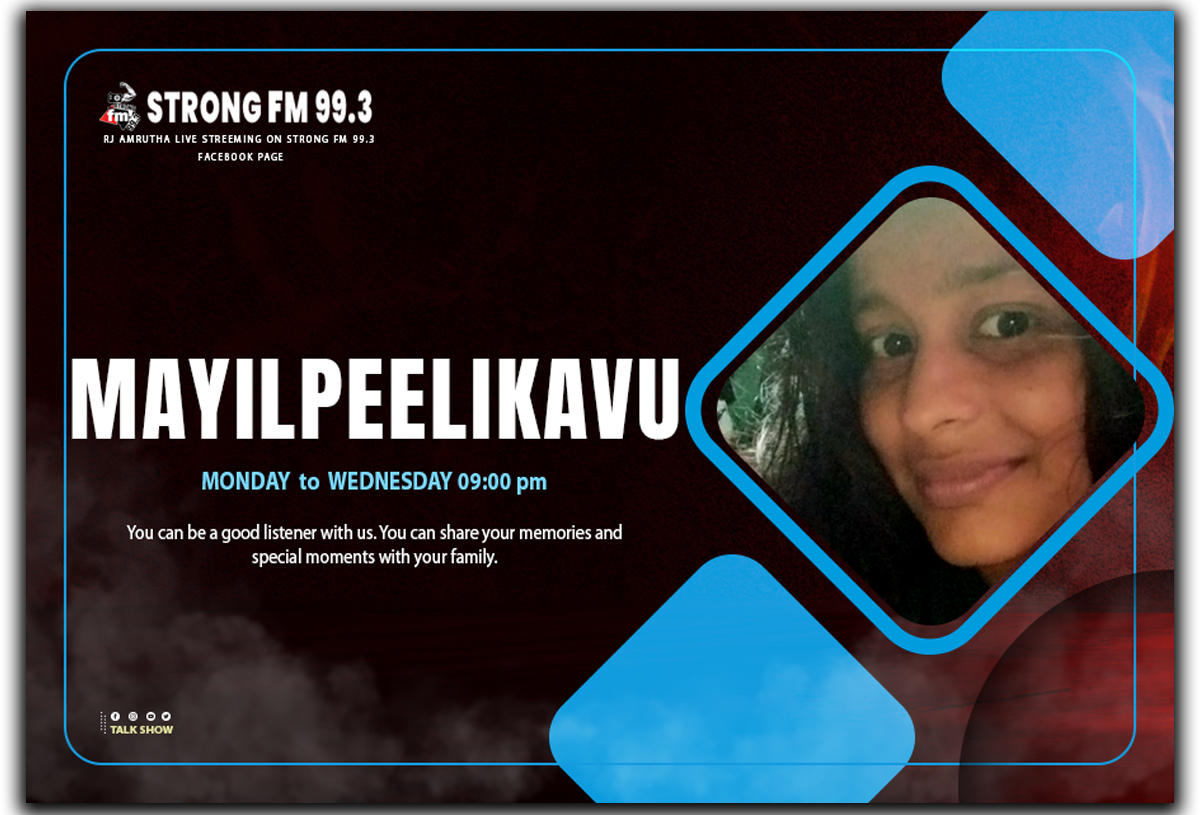
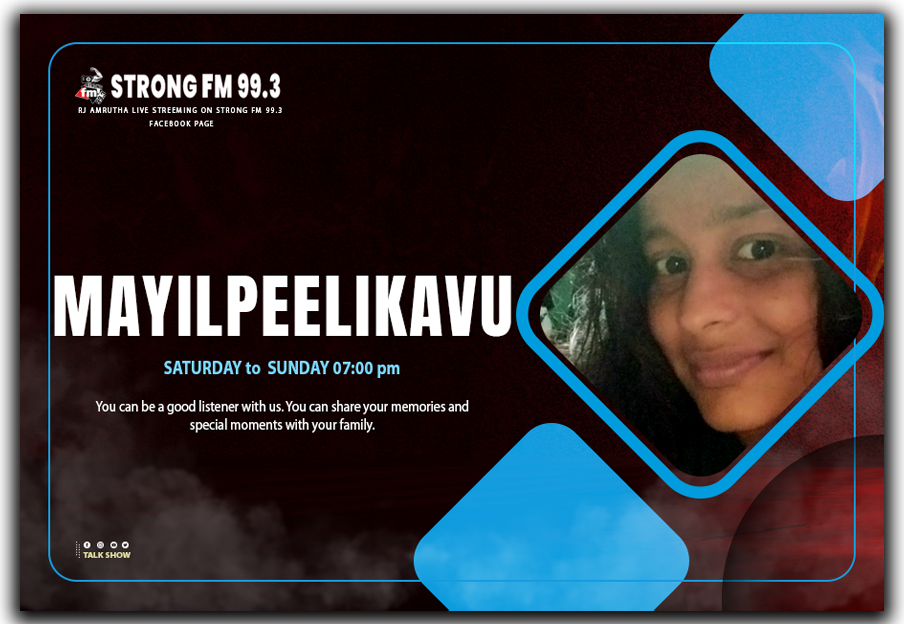
contant update

diff --git a/programs.html b/programs.html
@@ -123,7 +123,7 @@
                     <div class="col-lg-4 col-md-4 col-sm-12">
                         <div class="li-name">
                             <h4 class="text-uppercase program-deatails-li">mummy and me</h4>
-                            <p class=" text-uppercase  program-deatails-time">Thursday to friday - 07:00 pm</p>
+                            <p class=" text-uppercase  program-deatails-time">MONDAY - 08:00 pm</p>
                         </div>
                         <div class="li-name">
                             <h4 class="text-uppercase program-deatails-li">Happiness corner</h4>
@@ -131,7 +131,7 @@
                         </div>
                         <div class=" li-name ">
                             <h4 class="text-uppercase program-deatails-li">MAYILPEELIKAVU</h4>
-                            <p class=" text-uppercase  program-deatails-time">Monday to wednesday - 07:00 pm</p>
+                            <p class=" text-uppercase  program-deatails-time">Saturday to SUNDAY - 07:00 pm</p>
                     </div>
                         
                         

diff --git a/index.html b/index.html
@@ -284,7 +284,7 @@
 
             <div class="names">
               <h4 class="program-name text-uppercase font-weight-bold pt-4">MAYILPEELIKAVU</h4>
-              <p class="program-time text-uppercase">Thursday to friday 07:00 pm</p>
+              <p class="program-time text-uppercase">Saturday to SUNDAY 07:00 pm</p>
             </div>
           </div>
         </div>
@@ -295,7 +295,7 @@
 
             <div class="names">
               <h4 class="program-name text-uppercase font-weight-bold pt-4">mummy and me</h4>
-              <p class="program-time text-uppercase">Thursday to friday 07:00 pm</p>
+              <p class="program-time text-uppercase">MONDAY 08:00 pm</p>
             </div>
           </div>
         </div>
